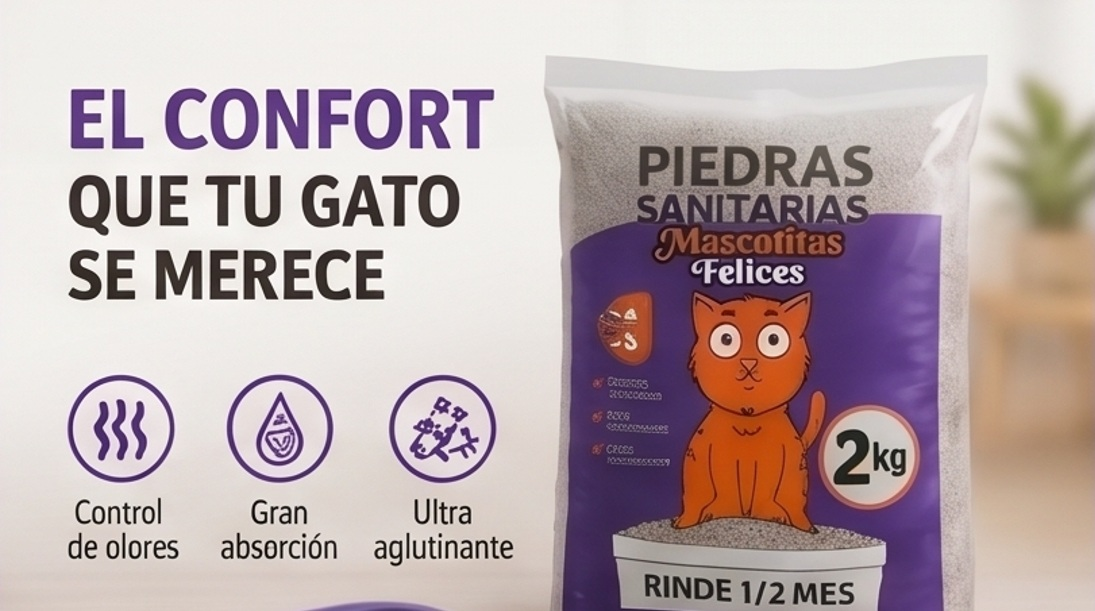
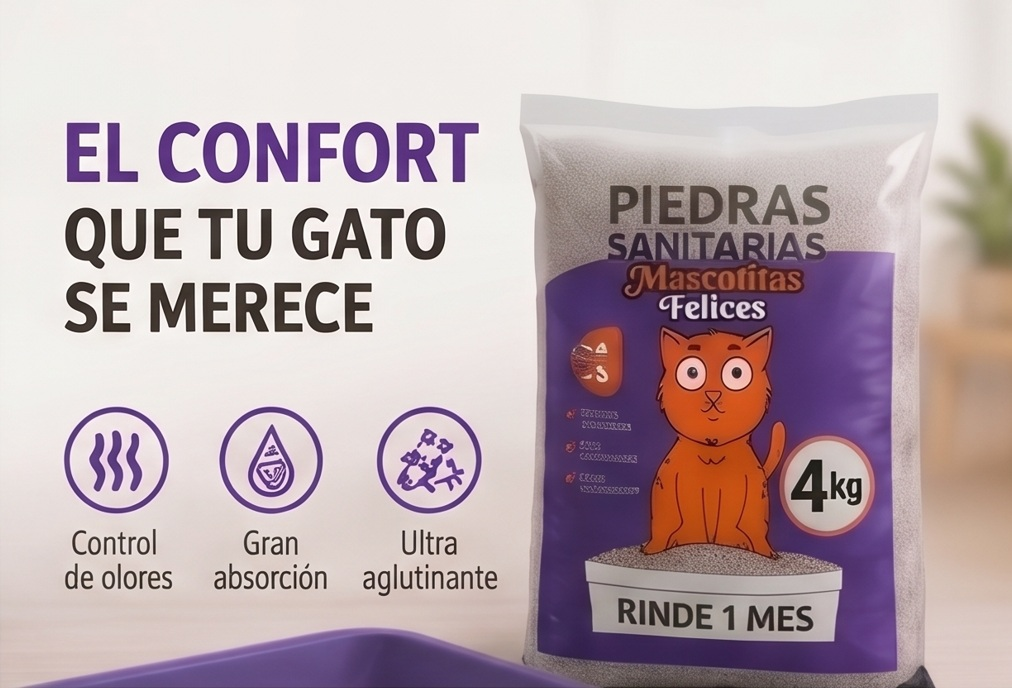
nuevas fotos

diff --git a/index.html b/index.html
@@ -13,10 +13,10 @@
             extend: {
                 colors: {
                     brand: {
-                        primary: '#47336b',   /* Violeta principal (Botones y textos destacados) */
-                        secondary: '#574768', /* Violeta secundario (Acentos e íconos) */
-                        dark: '#261b3b',      /* Violeta muy oscuro casi negro (Footer y títulos) */
-                        light: '#fcfbfe'      /* Blanco con un levísimo tinte lila para fondos */
+                        primary: '#47336b',
+                        secondary: '#574768',
+                        dark: '#261b3b',
+                        light: '#fcfbfe'
                     }
                 }
             }
@@ -92,8 +92,9 @@
                     <p class="text-gray-500">El mineral genera terrones sólidos y secos al entrar en contacto con líquidos. Esto facilita la remoción precisa de la suciedad, reduciendo el desperdicio del producto y maximizando su duración.</p>
                 </div>
             </div>
+            <!-- Imagen Confort 4Kg -->
             <div class="mt-12 flex justify-center">
-                 <img src="images/confort-gato.jpg" alt="Beneficios: Control de olores, gran absorción y ultra aglutinante" class="rounded-xl shadow-md max-w-full h-auto md:max-w-2xl">
+                 <img src="images/confort-gato.jpg" alt="Beneficios: Control de olores, gran absorción y ultra aglutinante" class="rounded-xl shadow-md max-w-full h-auto md:max-w-2xl border-2 border-white">
             </div>
         </div>
     </section>
@@ -132,8 +133,9 @@
                 </a>
             </div>
             
+            <!-- Imagen Ultra Aglutinante 4Kg -->
             <div class="mt-12 flex justify-center">
-                 <img src="images/gato-relajado.jpg" alt="Gato gris relajado con bandeja limpia que rinde 1 mes" class="rounded-xl shadow-md max-w-full h-auto md:max-w-2xl">
+                 <img src="images/ultra-aglutinante.jpg" alt="Acción ultra aglutinante que facilita la limpieza" class="rounded-xl shadow-md max-w-full h-auto md:max-w-2xl border-2 border-white">
             </div>
         </div>
     </section>
@@ -142,7 +144,7 @@
     <section class="py-12 bg-gray-50">
         <div class="max-w-4xl mx-auto px-4 sm:px-6 lg:px-8 text-center">
             <h2 class="text-3xl font-extrabold text-gray-900 mb-8">¿Cómo utilizar nuestras piedritas?</h2>
-            <img src="images/modo-de-uso.jpg" alt="Instrucciones de uso en 3 pasos" class="w-full rounded-xl shadow-lg">
+            <img src="images/modo-de-uso.jpg" alt="Instrucciones de uso en 3 pasos" class="w-full rounded-xl shadow-lg border-2 border-white">
         </div>
     </section>
 
@@ -173,10 +175,10 @@
         </div>
     </section>
     
-    <!-- Imagen Pre-Footer -->
+    <!-- Imagen Pre-Footer Hogares Felices 4Kg -->
     <section class="py-12 bg-brand-primary">
         <div class="max-w-4xl mx-auto px-4 sm:px-6 lg:px-8 text-center">
-            <img src="images/familia-productos.jpg" alt="Mascotitas Felices, Hogares Felices" class="w-full rounded-xl shadow-lg border-4 border-white/10">
+            <img src="images/hogares-felices.jpg" alt="Mascotitas Felices, Hogares Felices con envase de 4Kg" class="w-full rounded-xl shadow-lg border-4 border-white/10">
         </div>
     </section>
 
@@ -186,12 +188,10 @@
             <h2 class="text-2xl font-bold text-white mb-6">Mascotitas Felices</h2>
             <p class="text-gray-400 mb-8 text-center max-w-md">Sustratos sanitarios orientados a la higiene animal. Asegura la sanidad de tus mascotas con una solución de alto estándar.</p>
             
-            <!-- Botón de WhatsApp -->
             <a href="https://wa.me/5492645530227?text=Hola,%20necesito%20asistencia%20general%20con%20los%20productos." target="_blank" rel="noopener noreferrer" class="inline-flex items-center text-white bg-green-500 hover:bg-green-600 px-6 py-3 rounded-full font-medium transition shadow-lg mb-8">
                 <i class="fab fa-whatsapp mr-2 text-xl"></i> +54 264 5530227
             </a>
         
-            <!-- Redes Sociales (Instagram) -->
             <div class="flex space-x-6 mb-8">
                 <a href="https://instagram.com/piedrassanitariassj" target="_blank" rel="noopener noreferrer" class="text-gray-400 hover:text-white transition">
                     <span class="sr-only">Instagram</span>
